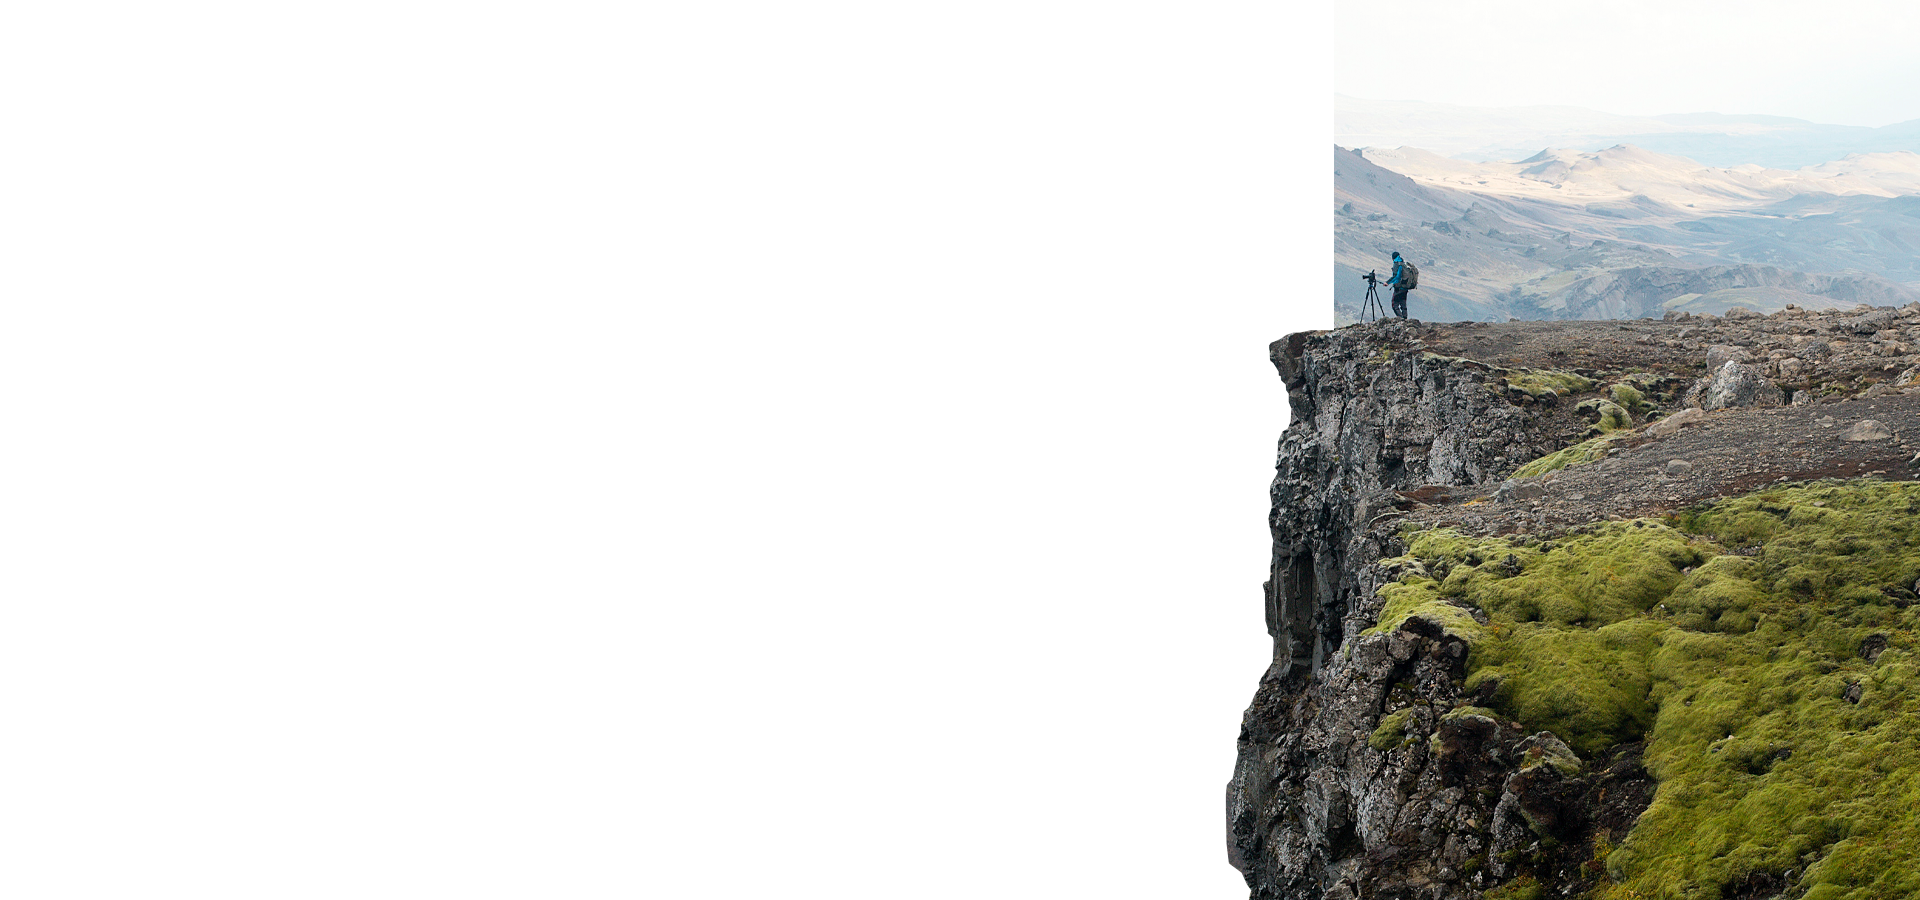
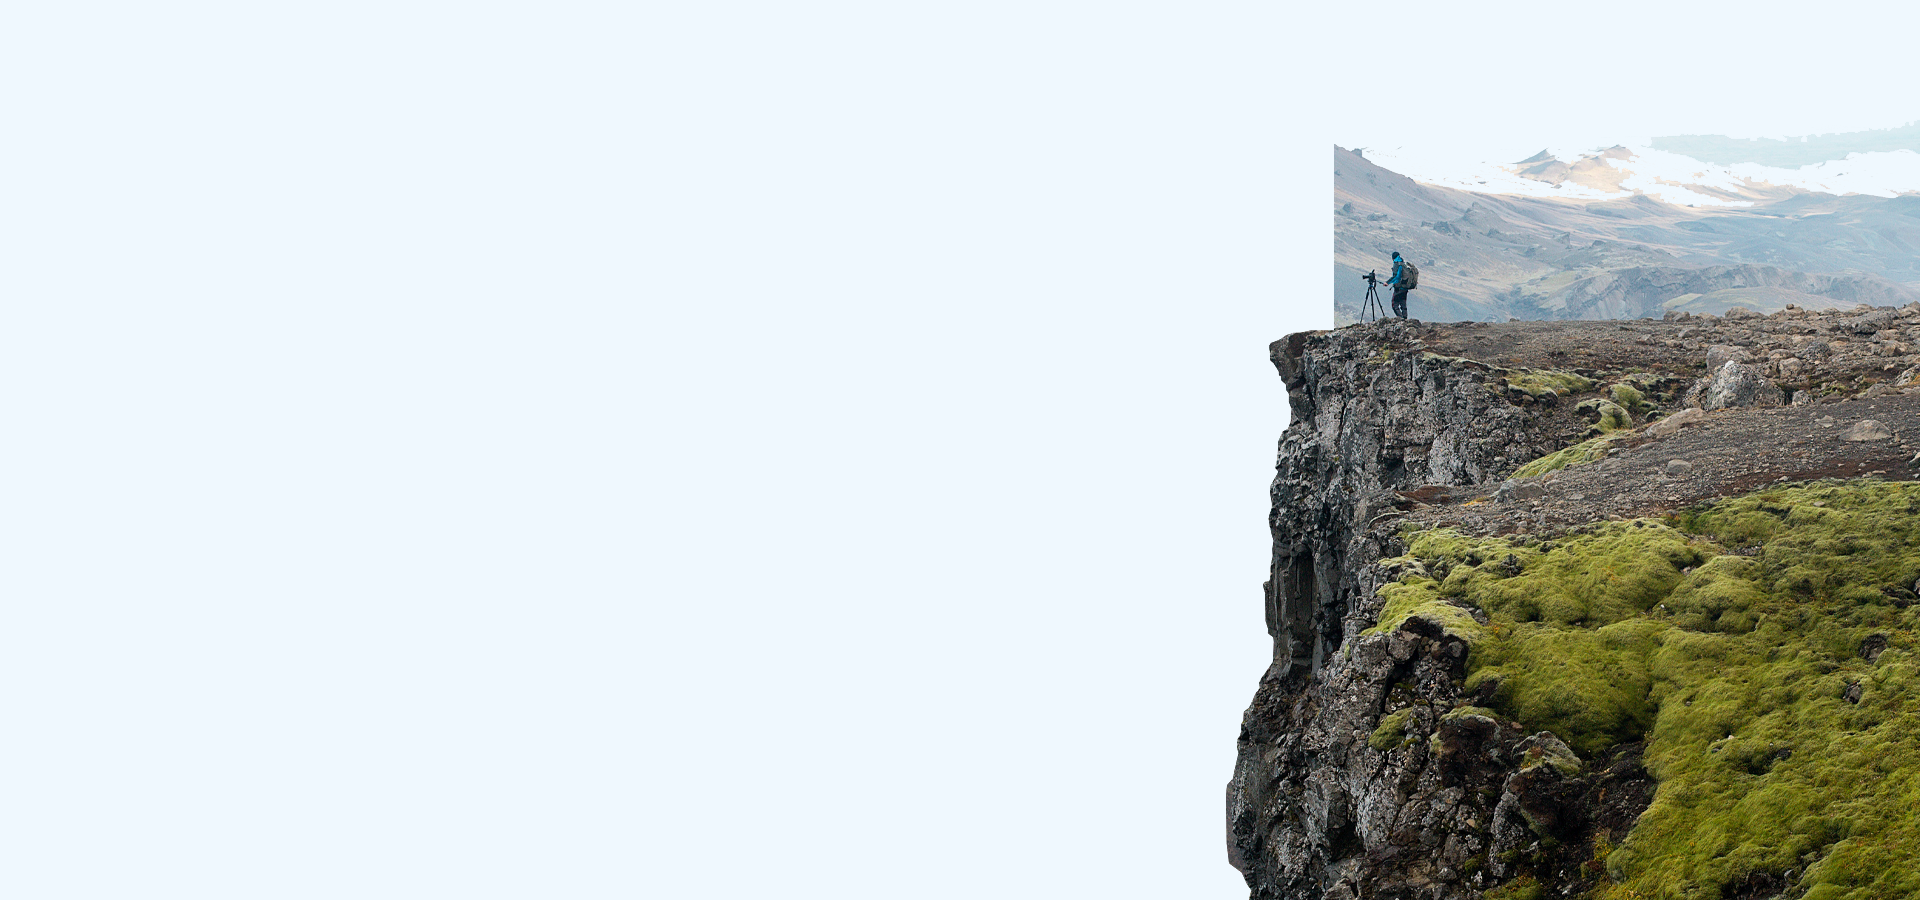
foo

Changed region(s): [[0.6875, 0.1556, 1.0, 0.2489]]

diff --git a/index.html b/index.html
@@ -33,7 +33,7 @@
 </div>
 
 <!-- HEADER -->
-<header>
+<header style="background-color: #eff8fe">
 	<div class='container-sm'>
 
 	<nav class="navbar navbar-expand-lg navbar-light">
@@ -119,6 +119,7 @@
 		      	watchSlidesVisibility: false,
 		      	watchSlidesProgress: true,
 		      	grabCursor: true,
+		      	autoplay: true,
 		      	slidesPerView: 1,
 		      	spaceBetween: 60,
 		      	breakpoints: {
@@ -134,7 +135,7 @@
 	</div>
 
 	<div class="align-self-center">
-		<a href="#secondpage"><button class="playbtn"><img src="assets/btns/right.png" id="next"></button></a>
+		<a href="#uslugi"><button class="playbtn"><img src="assets/btns/right.png" id="next"></button></a>
 	</div>
 	
 	
@@ -145,7 +146,7 @@
 
 <!-- NAVBAR -->
 
-<nav class="navbar sticky-top navbar-expand-lg navbar-light bg-light" id='secondpage'>
+<nav class="navbar sticky-top navbar-expand-lg navbar-light bg-light">
 	<div class="container">
 		<a class="navbar-brand" href="#"><img src="assets/logo.png" alt="" width="56" height="60"></a>
 	    <button class="navbar-toggler" type="button" data-toggle="collapse" data-target="#navbarSupportedContent" aria-controls="navbarSupportedContent" aria-expanded="false" aria-label="Toggle navigation">
@@ -167,18 +168,35 @@
 
 <!-- SERVICES SWIPER -->
 
-<div class='services' id="uslugi">
-	<div class='container'>
+<div class='services' id='uslugi'>
+	<div class="container">
 		<h1 class="headers"><span class="underlined">УСЛУГИ</span></h1>
+	</div>
+	
+	<div class='container'>
 		<div class="swiper-container service">
     		<div class="swiper-wrapper">
       			<div class="swiper-slide s2" style="background-image:url(./assets/uslugi1.png)"></div>
       			<div class="swiper-slide s2" style="background-image:url(./assets/uslugi2.png)"></div>
       			<div class="swiper-slide s2" style="background-image:url(./assets/uslugi3.png)"></div>
     		</div>
-   	<div class="swiper-pagination"></div>
+   			<div class="swiper-pagination"></div>
 		</div>
 	</div>
+	<!-- ORANGE BLOCK -->
+	<div class="orangeblock">
+		<div class="container">
+			<div class='row d-flex justify-content-between orange'>
+				<div class='col-auto head'>
+					<h1>Расчитайте стоимость Вашей съёмки</h1>
+					<p>с точностью в 95% прямо сейчас</p>
+				</div>
+				<div class='col-auto orange'>
+					<button onclick="togglePopup()" class="btn calc">РАСЧИТАТЬ СТОИМОСТЬ</button>
+				</div>
+			</div>
+		</div>
+	</div>	
 </div>
 
 <script type="module">
@@ -186,6 +204,7 @@
 
  	let swiper = new Swiper('.service', {
       effect: 'coverflow',
+      autoplay: true,
       grabCursor: true,
       slideToClickedSlide: true,
       loop: true,
@@ -206,20 +225,7 @@
   </script>
 
 
-<!-- ORANGE BLOCK -->
-<div class="orangeblock">
-	<div class="container">
-		<div class='row d-flex justify-content-between orange'>
-			<div class='col-auto head'>
-				<h1>Расчитайте стоимость Вашей съёмки</h1>
-				<p>с точностью в 95% прямо сейчас</p>
-			</div>
-			<div class='col-auto orange'>
-				<button onclick="togglePopup()" class="btn calc">РАСЧИТАТЬ СТОИМОСТЬ</button>
-			</div>
-		</div>
-	</div>
-</div>
+
 
 <!-- ABOUT -->
 			
@@ -239,8 +245,8 @@
 			<p>Lorem ipsum dolor sit amet, consectetur adipiscing elit. Donec placerat vitae arcu eget placerat. Maecenas accumsan metus eu scelerisque tincidunt. Sed leo mi, facilisis tristique nisl vitae, interdum pretium sapien. Pellentesque et augue sed purus blandit semper. Ut elementum vulputate augue in placerat. Vestibulum vulputate nunc a pellentesque semper. Ut efficitur sit amet ipsum eu tincidunt. Lorem ipsum dolor sit amet, consectetur adipiscing elit. Lorem ipsum dolor sit amet, consectetur adipiscing elit. Donec placerat vitae arcu eget placerat. Maecenas accumsan metus eu scelerisque tincidunt. Sed leo mi, facilisis tristique nisl vitae, interdum pretium sapien. Pellentesque et augue sed purus blandit semper. Ut elementum vulputate augue in placerat. Vestibulum vulputate nunc a pellentesque semper. Ut efficitur sit amet ipsum eu tincidunt. Lorem ipsum dolor sit amet.</p>
 			<p>Donec placerat vitae arcu eget placerat. Maecenas accumsan metus eu scelerisque tincidunt. Sed leo mi, facilisis tristique nisl vitae, interdum pretium sapien. Pellentesque et augue sed purus blandit semper. Ut elementum vulputate augue in placerat. Vestibulum vulputate nunc a pellentesque semper. Ut efficitur sit amet ipsum eu tincidunt.</p>
 			<div class="d-flex flex-row flex-wrap justify-content-between">
-				<button class="btn book">ПОРТФОЛИО</button>
-				<button class="btn">ЗАКАЗАТЬ</button>
+				<a href="#folio"><button class="btn book">ПОРТФОЛИО</button></a>
+				<button onclick="togglePopup()" class="btn">ЗАКАЗАТЬ</button>
 			</div>
 		</div>
 		<div class='temp hide'>
@@ -281,25 +287,24 @@
 	</div>
 </div>
 
-<!-- ORANGE BLOCK -->
-<div class="orangeblock">
-	<div class="container">
-		<div class='row d-flex justify-content-between orange'>
-			<div class='col-auto head'>
-				<h1>Есть вопросы?</h1>
-				<p>Оставьте заявку на обратную связь и мы перезвоним Вам в кратчайшие сроки!</p>
-			</div>
-			<div class='col-auto orange'>
-				<button onclick="togglePopup()" class="btn calc">ОСТАВИТЬ ЗАЯВКУ</button>
+			<!-- ORANGE BLOCK -->
+	<div class="orangeblock">
+		<div class="container">
+			<div class='row d-flex justify-content-between orange'>
+				<div class='col-auto head'>
+					<h1>Есть вопросы?</h1>
+					<p>Оставьте заявку на обратную связь и мы перезвоним Вам в кратчайшие сроки!</p>
+				</div>
+				<div class='col-auto orange'>
+					<button onclick="togglePopup()" class="btn calc">ОСТАВИТЬ ЗАЯВКУ</button>
+				</div>
 			</div>
 		</div>
 	</div>
-</div>
 
 <!-- PORTFOLIO -->
 <div class="portfolio" id="folio">
-	<div class='container'>
-		<div class="d-flex flex-row justify-content-between">
+	<div class="d-flex flex-row justify-content-between container">
 			<h1 class="headers"><span class="underlined">НАШИ РАБОТЫ</span></h1>
 			<div class="align-self-center hide">
 				<button id="slideLeft" class='scroll'><img src="assets/btns/left.png"></button>
@@ -307,7 +312,7 @@
 	    	</div>
 		</div>
 
-
+	<div class='container'>
 		<div class='faded'>
 			<div id='overflow'>
 				<div class='portfoliocard'>
@@ -376,16 +381,6 @@
 				</div>
 			</div>
 		</div>	
-
-		<div class='row hide'>
-			<div class='col-auto'>
-				<button class="btn">ЗАКАЗАТЬ</button>
-			</div>
-			<div class='col'>
-				<h1>Есть вопросы?</h1>
-				<p>Оставьте заявку на обратную связь и мы перезвоним Вам в кратчайшие сроки!</p>
-			</div>
-		</div>
 	</div>
 </div>
 
@@ -449,7 +444,19 @@
   </script>
 
 <!-- ORANGE BLOCK -->
-<div class="orangeblock"><div class='space'></div></div>
+<div class="orangeblock">
+		<div class="container">
+			<div class='row d-flex justify-content-between orange'>
+				<div class='col-auto head'>
+					<h1>Нужна камера?</h1>
+					<p>В нашем арсенале Вы найдёте идеальный инструмент!</p>
+				</div>
+				<div class='col-auto orange'>
+					<button onclick="togglePopup()" class="btn calc">КАТАЛОГ</button>
+				</div>
+			</div>
+		</div>
+	</div>	
 
 <!-- REVIEWS -->
 <div class="review">

diff --git a/style.css b/style.css
@@ -164,8 +164,8 @@ p{text-align: justify;line-height: 1}
 header{
 	background-image:url('../assets/bg.png');
 	background-repeat:no-repeat;
-	background-size:inherit;
-	background-position:center;
+	background-size:auto;
+	background-position:center bottom;
   	}
 
 header .container-sm{
@@ -201,15 +201,12 @@ header .btn.book{position: relative;top:45px;}
 	}
 
 .post{
-	color: black;
+	color: #5c6f7d;
 	width: 250px; height: 160px;
-	margin:auto;
-	display: flex;
-	flex-direction: column;
-	justify-content: space-around}
+	margin:auto;}
 
-.post h4{margin-top: 10px;font-size: 20px}
-.post p{font-size: 15px}
+.post h4{margin-top: 25px;font-size: 20px}
+.post p{font-size: 15px;}
 
 .back {
   position: relative;}
@@ -217,7 +214,7 @@ header .btn.book{position: relative;top:45px;}
 .back:before{
 	display: block;
 	content: "";
-	background: rgba(211, 211, 211, 0.8);	
+	background: rgba(216, 224, 230, 0.8);	
 	position: absolute;
 	right:-15px;
 	width: 2000px;
@@ -229,7 +226,8 @@ header .btn.book{position: relative;top:45px;}
 	margin: 30px}
 
 /*NAVBAR*/
-nav.navbar.navbar-expand-lg{padding: 0}
+nav.navbar.navbar-expand-lg{
+	padding: 0;}
 
 .nav-item{margin-left:30px}
 
@@ -254,7 +252,11 @@ nav.navbar.navbar-expand-lg{padding: 0}
 
 
 /*SERVICES*/
-.services{ display: flex; align-items: center;}
+.services{
+	min-height: 100vh;
+	display: flex;
+	flex-direction: column;
+	justify-content: space-between;}
 
 .swiper-container.service {
   width: 100%;
@@ -289,6 +291,7 @@ nav.navbar.navbar-expand-lg{padding: 0}
 }
 
 /*ABOUT*/
+
 .about-video{
 	position: relative;
 	margin: auto 0;
@@ -354,9 +357,9 @@ nav.navbar.navbar-expand-lg{padding: 0}
 }
 
 /*PORTFOLIO*/
-.portfolio{margin-bottom: 70px}
 
 #overflow{
+	margin:1px;
 	display:flex;
 	flex-direction:row;
 	justify-content:space-between;
@@ -370,7 +373,7 @@ nav.navbar.navbar-expand-lg{padding: 0}
   right:0; top:0;
   width:10%; height:100%;
   display:inline-block;
-  background: linear-gradient(to left, rgba(255,255,255,1) 0%,rgba(255,255,255,0) 100%)}
+  background: linear-gradient(to left, rgba(255,255,255,1) 1%,rgba(255,255,255,0) 100%)}
 
 .portfoliocard{position: relative; margin: 16px;}
 #overflow::-webkit-scrollbar{display:none}
